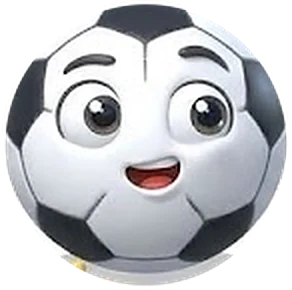
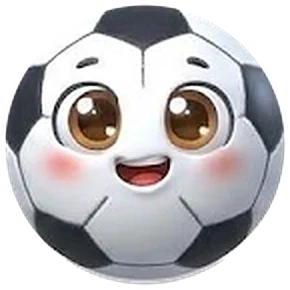
Goli talks with the team scarf too: scarf dressed onto the regular face (closed/open mouth); talk frame keeps the brown eyes
Claude-Session: https://claude.ai/code/session_01Mxiv5njLw4hiVfBEJRmmtz

Changed region(s): [[0.0, 0.0, 0.9931, 0.9931], [0.9621, 0.5586, 0.9931, 0.6207], [0.0621, 0.2483, 0.0931, 0.2793]]

diff --git a/frontend/src/components/GoliSprite.js b/frontend/src/components/GoliSprite.js
@@ -5,7 +5,8 @@ import sleepImg from '../assets/goli/sleep.webp';
 import sadImg from '../assets/goli/sad.webp';
 import celebrateImg from '../assets/goli/celebrate.webp';
 import crownImg from '../assets/goli/crown.webp';
-import scarfImg from '../assets/goli/scarf.webp';
+import idleScarfImg from '../assets/goli/idle_scarf.webp';
+import talkScarfImg from '../assets/goli/talk_scarf.webp';
 
 // גולי - הדמות שנבחרה (גיליון הדמות מ-Gemini), כתמונה לכל הבעה, עם תנועה ב-CSS:
 //   idle      - קפיצה רכה עם כיווץ בנחיתה
@@ -21,16 +22,18 @@ import scarfImg from '../assets/goli/scarf.webp';
 
 // מיקום הכדור בכל תמונה (מרכז ורדיוס, בפיקסלים) - כדי שהכדור יישב בדיוק
 // באותו מקום בכל הבעה ולא "יקפוץ" במעבר.
-// (בתמונת הצעיף, החלק התחתון של הכדור מתחת לצעיף נלקח מהתמונה הרגילה -
-// אצל Gemini הוא "מתיישב" ונבלע בצל, ובלי זה הוא לא נראה עגול)
+// talk = הפרצוף הרגיל עם הפה של "מדבר" מהגיליון (שם העיניים אפורות, וכך
+// הן לא מהבהבות בדיבור). idle_scarf/talk_scarf = אותם פרצופים עם הצעיף
+// מהגיליון מולבש עליהם - כדי שגם עם צעיף הוא ידבר
 const SPRITES = {
   idle: { src: idleImg, w: 290, h: 290, cx: 144, cy: 144, r: 146 },
-  talk: { src: talkImg, w: 292, h: 290, cx: 145, cy: 144, r: 147 },
+  talk: { src: talkImg, w: 290, h: 290, cx: 144, cy: 144, r: 146 },
   sleep: { src: sleepImg, w: 306, h: 292, cx: 142, cy: 148, r: 144 },
   sad: { src: sadImg, w: 288, h: 286, cx: 143, cy: 142, r: 145 },
   celebrate: { src: celebrateImg, w: 286, h: 286, cx: 142, cy: 142, r: 144 },
   crown: { src: crownImg, w: 302, h: 354, cx: 148, cy: 204, r: 150 },
-  scarf: { src: scarfImg, w: 318, h: 308, cx: 155, cy: 152, r: 155 }
+  idle_scarf: { src: idleScarfImg, w: 300, h: 311, cx: 146, cy: 144, r: 146 },
+  talk_scarf: { src: talkScarfImg, w: 300, h: 311, cx: 146, cy: 144, r: 146 }
 };
 
 const TALK_MS = 1600;
@@ -58,13 +61,13 @@ const hex = (c) => {
   const n = parseInt(m[1], 16);
   return [(n >> 16) & 255, (n >> 8) & 255, n & 255];
 };
-const tintScarf = (primary, secondary) => {
+const tintScarf = (src, primary, secondary) => {
   let col = hex(primary);
   const sec = hex(secondary);
   // צבע ראשי כמעט לבן (הפסים הלבנים כבר לבנים) - משתמשים במשני
   if (col && col[0] + col[1] + col[2] > 690 && sec) col = sec;
   if (!col) return Promise.resolve(null);
-  const key = col.join(',');
+  const key = `${src}|${col.join(',')}`;
   if (scarfCache.has(key)) return scarfCache.get(key);
   const p = new Promise((resolve) => {
     const img = new Image();
@@ -77,7 +80,7 @@ const tintScarf = (primary, secondary) => {
         const d = x.getImageData(0, 0, c.width, c.height);
         const a = d.data;
         // רק באזור הצעיף (מתחת לפה) - לא נוגעים בעיניים החומות
-        const y0 = Math.round(c.height * 0.56);
+        const y0 = Math.round(c.height * 0.62);
         for (let i = y0 * c.width * 4; i < a.length; i += 4) {
           const r = a[i], g = a[i + 1], b = a[i + 2];
           if (r > g + 45 && r > b + 45) {
@@ -90,7 +93,7 @@ const tintScarf = (primary, secondary) => {
       } catch (e) { resolve(null); }
     };
     img.onerror = () => resolve(null);
-    img.src = scarfImg;
+    img.src = src;
   });
   scarfCache.set(key, p);
   return p;
@@ -99,7 +102,7 @@ const tintScarf = (primary, secondary) => {
 export default function GoliSprite({ mood = 'idle', stepKey, lookX = 0, lookY = 0, size = 66, still = false, talk = true, crown = false, scarf = null }) {
   const calm = mood === 'idle' || mood === 'wave';
   const useScarf = !!scarf && calm && !crown;
-  const canTalk = talk && calm && !useScarf && !crown && !still;
+  const canTalk = talk && calm && !crown && !still;
 
   // דיבור: פה נפתח ונסגר לרגע בכל שלב חדש
   const [mouthOpen, setMouthOpen] = useState(false);
@@ -112,23 +115,26 @@ export default function GoliSprite({ mood = 'idle', stepKey, lookX = 0, lookY = 
     return () => { clearInterval(iv); clearTimeout(t); };
   }, [stepKey, canTalk]);
 
+  // שתי תמונות הצעיף (פה סגור/פתוח) נצבעות מראש, כדי שהדיבור לא יהבהב
   const scarfKey = scarf ? scarf.join(',') : '';
-  const [scarfSrc, setScarfSrc] = useState(null);
+  const [tinted, setTinted] = useState({});
   useEffect(() => {
     let alive = true;
     if (!useScarf) return undefined;
-    tintScarf(scarf[0], scarf[1]).then((u) => { if (alive) setScarfSrc(u); });
+    ['idle_scarf', 'talk_scarf'].forEach((n) => {
+      tintScarf(SPRITES[n].src, scarf[0], scarf[1]).then((u) => { if (alive && u) setTinted((t) => ({ ...t, [n]: u })); });
+    });
     return () => { alive = false; };
   }, [scarfKey, useScarf]); // eslint-disable-line react-hooks/exhaustive-deps
 
   const key = crown ? 'crown'
-    : useScarf ? 'scarf'
+    : useScarf ? (mouthOpen ? 'talk_scarf' : 'idle_scarf')
     : mood === 'sleep' ? 'sleep'
     : mood === 'sad' ? 'sad'
     : mood === 'celebrate' ? 'celebrate'
     : mouthOpen ? 'talk' : 'idle';
   const sp = SPRITES[key];
-  const src = key === 'scarf' ? (scarfSrc || sp.src) : sp.src;
+  const src = tinted[key] || sp.src;
 
   // הכדור: קוטר ומרכז קבועים בתוך המסגרת (רוחב size, גובה size×1.15)
   const H = size * 1.15;
